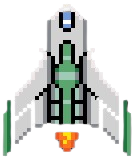
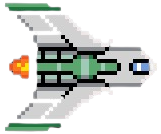
Added shot ability and refactor Screens

diff --git a/screens/GameScreen.py b/screens/GameScreen.py
@@ -1,6 +1,8 @@
+from GameObject import GameObject
 from OptionsReader import OptionsReader
 from Character import Character
 from screens.Screen import Screen
+import Shot
 import screens.ScreenManager
 import pygame
 
@@ -14,12 +16,13 @@ class GameScreen(Screen):
         (int(OptionsReader().getValue("WindowWidth"))/2,
          int(OptionsReader().getValue("WindowHeight"))/2)
     )
-    
-    ChrossHair = pygame.transform.scale(
-        pygame.image.load("assets/crosshair.png"),
-        (int(OptionsReader().getValue("CrossHairSize")), int(OptionsReader().getValue("CrossHairSize"))))
 
-    lastMousePosition = (0,0)
+    ChrossHairSize = (50, 50)
+
+    ChrossHair = pygame.transform.scale(
+        pygame.image.load("assets/crosshair.png"), ChrossHairSize)
+
+    lastMousePosition = (0, 0)
 
     def __init__(self, display):
         super().__init__(display)
@@ -31,29 +34,42 @@ class GameScreen(Screen):
         # Mouse Input
         mousePosition = input["mousePos"]
 
-        self.executeInputs(input)
+        self.executeInputs(self,input)
 
         # Walpaper
-        Wallpaper = pygame.transform.scale(self.WallpaperImage, self.WindowDimensions)
+        Wallpaper = pygame.transform.scale(
+            self.WallpaperImage, self.WindowDimensions)
         self.display.blit(Wallpaper, (0, 0))
 
         if mousePosition != ():
             self.lastMousePosition = mousePosition
 
         # Draw character
-        self.myCharacter.move() # First move character
-        
+        self.myCharacter.move()  # First move character
+        self.myCharacter.setChrosshairPosition(self.lastMousePosition)
+
         self.display.blit(
-            self.myCharacter.getObjectPointingToPosition(self.lastMousePosition),
+            self.myCharacter.getObjectPointingToPosition(
+                self.lastMousePosition),
             self.myCharacter.center
-        ) 
+        )
 
         # Draw Cursor
-        self.display.blit(self.ChrossHair, self.crossHairPositionOffset(self.lastMousePosition))
+        self.display.blit(
+            self.ChrossHair, self.crossHairPositionOffset(self.lastMousePosition))
 
+        # Draw Shots
+        nextShots = []
+        for shot in self.myCharacter.Shots:
+            shot.move()
+            self.display.blit(shot.getImage(), shot.getPosition())
+            if(not shot.isOffScreen()):
+                nextShots.append(shot)
+
+        self.myCharacter.Shots = nextShots
 
     def crossHairPositionOffset(self, pos):
-        return (pos[0]-int(OptionsReader().getValue("CrossHairSize"))/2, pos[1]-int(OptionsReader().getValue("CrossHairSize"))/2)
+        return (pos[0]-self.ChrossHairSize[0]/2, pos[1]-self.ChrossHairSize[1]/2)
 
     def exitGame():
         return screens.ScreenManager.ScreenManager().changeToPauseScreen()
@@ -71,5 +87,4 @@ class GameScreen(Screen):
     }
 
     myReleasedActions = {
-
     }

diff --git a/screens/PauseScreen.py b/screens/PauseScreen.py
@@ -8,17 +8,17 @@ import pygame
 
 class PauseScreen(Screen):
     display = None
+    mousePosition = (0,0)
 
     def __init__(self, display):
         super().__init__(display)
-        self.resumeButton = Button("RESUME", (self.WindowDimensions[0]/2,self.WindowDimensions[1]*2/3),30,"black","red", screens.ScreenManager.ScreenManager().exitApp)
-        self.buttons = [self.resumeButton]
+        self.resumeButton = Button("EXIT", (self.WindowDimensions[0]/2,self.WindowDimensions[1]*2/3),30,"black","red", screens.ScreenManager.ScreenManager().exitApp)
 
     def execute(self, input):
         # Mouse Input
-        mousePosition = input["mousePos"]
+        self.mousePosition = input["mousePos"]
 
-        self.executeInputs(input)
+        self.executeInputs(self, input)
 
         # Background      
         self.display.fill((0, 0, 0))
@@ -30,15 +30,15 @@ class PauseScreen(Screen):
         return None
 
 
-    def backToGame():
-        return screens.ScreenManager.ScreenManager().changeToGameScreen()
+    def backToGame(self):
+        screens.ScreenManager.ScreenManager().changeToGameScreen()
 
-    def checkButtonClicked(self):
-        print("I clicked")
+    def checkMouseClick(self):
+        if(self.resumeButton.isColliding(self.mousePosition)):
+            screens.ScreenManager.ScreenManager().exitApp()
 
-        pass
 
     myPressedActions = {
         pygame.K_ESCAPE : backToGame,
-        pygame.MOUSEBUTTONDOWN : checkButtonClicked
+        pygame.MOUSEBUTTONDOWN : checkMouseClick
     }

diff --git a/Character.py b/Character.py
@@ -1,25 +1,26 @@
-import pygame
-
 from GameObject import GameObject, GameObjectTypes
-from OptionsReader import OptionsReader
-
+from Shot import Shot
+import pygame
 
 class Character(GameObject):
     
     image = pygame.image.load("assets/spaceship.png")
     characterImage = None
+    Shots = []
+    CharacterWidth = 80
+    CharacterHeight = 80
 
     def __init__(self, position):
         super().__init__(
-            int(OptionsReader().getValue("CharacterSizeX")),
-            int(OptionsReader().getValue("CharacterSizeY")),
+            self.CharacterWidth,
+            self.CharacterHeight,
             position
         )
         self.characterImage = pygame.transform.scale(self.image, (self.width, self.height))
         self.objectType = GameObjectTypes.CHARACTER
         self.ACEL = 5
 
-    def getCharacterImage(self):
+    def getImage(self):
         return self.characterImage
 
     def moveUp(self):
@@ -35,4 +36,14 @@ class Character(GameObject):
         self.movement += pygame.Vector2(1, 0)
 
     def fire(self):
-        print("fire")
+        shot = Shot(pygame.Vector2(self.getPosition()))
+        shot.objectType = GameObjectTypes.SHOT
+        shot.ACEL = 15
+        shot.movement = (pygame.Vector2(self.getChrosshairPosition())) - pygame.Vector2(self.getPosition())
+        self.Shots.append(shot)
+
+    def setChrosshairPosition(self, pos):
+        self.chrosshairPosition = pos
+
+    def getChrosshairPosition(self):
+        return self.chrosshairPosition

diff --git a/screens/Screen.py b/screens/Screen.py
@@ -13,25 +13,25 @@ class Screen(object):
     def execute(self, input):
         return None
 
-    def executeInputs(self, input):
+    def executeInputs(self, selfRef, input):
         # Execute Keyboard Inputs
         for i in input["pressed"]:
-            if self.myPressedActions.get(i) is not None:
-                a = self.myPressedActions.get(i)()
-                if a is not None:
-                    return a
+            self.executeInputsAux(self.myPressedActions.get(i), selfRef)
 
         for f in input["hold"]:
-            if self.myHoldActions.get(f) is not None:
-                a = self.myHoldActions.get(f)()
-                if a is not None:
-                    return a
+            self.executeInputsAux(self.myHoldActions.get(f), selfRef)
 
         for g in input["released"]:
-            if self.myReleasedActions.get(g) is not None:
-                a = self.myReleasedActions.get(g)()
-                if a is not None:
-                    return a
+            self.executeInputsAux(self.myReleasedActions.get(g), selfRef)
+
+    def executeInputsAux(self, function, args):
+        if function is not None:
+            try:
+                funcResult = function(args)
+                return funcResult if funcResult is not None else None
+            except:
+                funcResult = function()
+                return funcResult if funcResult is not None else None
 
     myHoldActions = {}
     myPressedActions = {}

diff --git a/GameObject.py b/GameObject.py
@@ -24,7 +24,7 @@ class GameObject(object):
         return isOutScreenX or isOutScreenY
 
     def move(self):
-        if self.movement == Vector2(0,0)  : return
+        if self.movement == Vector2(0,0) : return
 
         self.position += self.movement.normalize() * self.ACEL
 
@@ -32,10 +32,10 @@ class GameObject(object):
             case GameObjectTypes.CHARACTER:
                 if(self.isOutOfBounds()):
                     self.position -= self.movement.normalize() * self.ACEL
+                self.movement = Vector2(0,0)   
             case _:
                 pass
-
-        self.movement = Vector2(0,0)       
+        
 
     def getPosition(self):
         return self.position
@@ -45,14 +45,16 @@ class GameObject(object):
 
     def collidingObjects(self, gameObjectToVerify):
         pass
-    
-    def getObjectPointingToPosition(self, targetPosition):
 
+    def getImage(self):
+        pass
+
+    def getObjectPointingToPosition(self, targetPosition):
         (x, y) = self.getPosition()
         (targetX, targetY) = targetPosition
 
-        angle = 270-math.atan2(targetY-y,targetX-x)*180/math.pi 
-        result = transform.rotate(self.getCharacterImage(), angle)
+        angle = -math.atan2(targetY-y,targetX-x)*180/math.pi 
+        result = transform.rotate(self.getImage(), angle)
         self.center = result.get_rect(center=self.getPosition())
 
         return result   

diff --git a/Enemy.py b/Enemy.py
@@ -1,5 +1,14 @@
 from GameObject import GameObject
+import pygame
 
+class Enemy(GameObject):
 
-class Enemy(object):
-    pass
+    EnemyWidth = 75
+    EnemyHeight = 75
+    EnemyImage = pygame.image.load("assets/asteroid.png")
+
+    def __init__(self, position):
+        super().__init__(self.EnemyWidth, self.EnemyHeight, position)
+
+    def getImage(self):
+        return pygame.transform.scale(self.EnemyImage, (self.EnemyWidth, self.EnemyHeight))

diff --git a/Shot.py b/Shot.py
@@ -1,0 +1,14 @@
+from GameObject import GameObject
+import pygame
+
+class Shot(GameObject):
+
+    ShotWidth = 10
+    ShotHeight = 10
+    ShotImage = pygame.image.load("assets/shot.png")
+
+    def __init__(self, position):
+        super().__init__(self.ShotWidth, self.ShotHeight, position)
+
+    def getImage(self):
+        return pygame.transform.scale(self.ShotImage, (self.ShotWidth, self.ShotHeight))

diff --git a/main.py b/main.py
@@ -41,7 +41,7 @@ def main():
         for event in pressed:
             inputs["mousePos"] = pygame.mouse.get_pos()
             if event.type == pygame.QUIT:
-                pygame.quit()
+                #pygame.quit()
                 sys.exit()
             elif event.type == pygame.KEYDOWN:
                 #print("Pressed ", pygame.key.name(event.key))

diff --git a/screens/ScreenManager.py b/screens/ScreenManager.py
@@ -1,3 +1,4 @@
+import sys
 from screens.ScreensEnum import ScreensEnum
 from Singleton import SingletonMeta 
 import pygame 
@@ -23,4 +24,5 @@ class ScreenManager(metaclass=SingletonMeta):
 
     def exitApp(self):
         print("Exiting...")
-        pygame.quit()
+        sys.exit()
+        #pygame.quit()

diff --git a/screens/StartScreen.py b/screens/StartScreen.py
@@ -21,7 +21,7 @@ class StartScreen(Screen):
 
     def execute(self, input):
         
-        self.executeInputs(input)
+        self.executeInputs(self,input)
 
         # Draw GIF
         self.display.blit(pygame.transform.scale(self.backgrounfGif[self.activeBackgroundIndex],self.WindowDimensions),(0,0))
